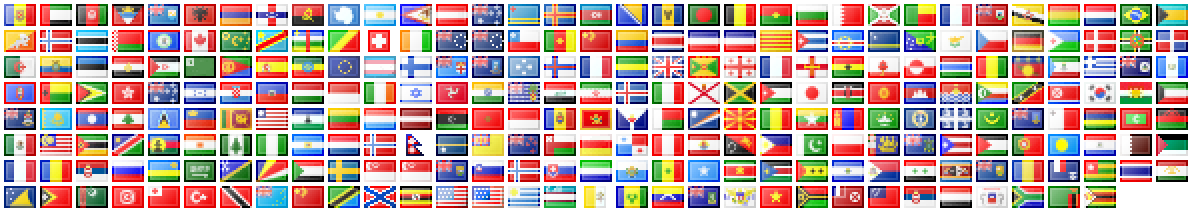
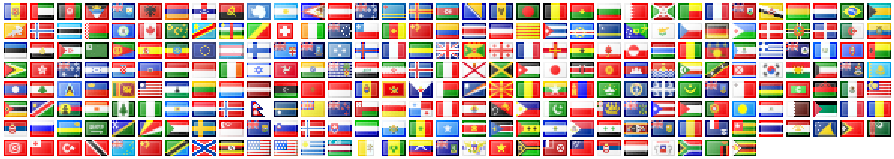
add average color of videos and pics change flag atlas dimensions

diff --git a/src/data/sql/Message.js b/src/data/sql/Message.js
@@ -103,7 +103,7 @@ export async function storeMessage(message, cid, uid) {
         if (insertedRows > 0) {
           const models = await sequelize.query(
             // eslint-disable-next-line max-len
-            `SELECT CONCAT(shortId, ':', b.extension) AS mediaId, b.type AS mediaType, b.size AS mediaSize, b.width AS mediaWidth, b.height AS mediaHeight FROM Media b
+            `SELECT CONCAT(shortId, ':', b.extension) AS mediaId, b.type AS mediaType, b.size AS mediaSize, b.width AS mediaWidth, b.height AS mediaHeight, b.avgColor AS mediaAvgColor FROM Media b
   INNER JOIN MessageMedia mm ON mm.mid = b.id
 WHERE mm.sid = ?`, {
               replacements: [id],
@@ -115,9 +115,11 @@ WHERE mm.sid = ?`, {
           for (let i = 0; i < models.length; i += 1) {
             const {
               mediaId, mediaType, mediaSize, mediaWidth, mediaHeight,
+              mediaAvgColor,
             } = models[i];
             attachments.push([
               mediaId, mediaType, mediaSize, mediaWidth, mediaHeight,
+              mediaAvgColor,
             ]);
           }
         }
@@ -199,7 +201,7 @@ export async function getMessagesForChannel(cid, limit) {
       `SELECT m.id AS msgId, m.message, m.uid AS userId,
 UNIX_TIMESTAMP(m.createdAt) AS 'ts',
 u.name, u.userlvl, p.customFlag, s.country,
-CONCAT(b.shortId, ':', b.extension) AS mediaId, b.type AS mediaType, b.size AS mediaSize, b.width AS mediaWidth, b.height AS mediaHeight,
+CONCAT(b.shortId, ':', b.extension) AS mediaId, b.type AS mediaType, b.size AS mediaSize, b.width AS mediaWidth, b.height AS mediaHeight, b.avgColor AS mediaAvgColor,
 CONCAT(a.shortId, ':', a.extension) AS avatarId FROM Messages m
   INNER JOIN Users u ON u.id = m.uid
   LEFT JOIN Profiles p ON p.uid = u.id
@@ -237,9 +239,11 @@ WHERE m.cid = ? ORDER BY m.createdAt DESC LIMIT ?`, {
           );
           mediaReferences.set(msgId, attachments);
         }
-        const { mediaType, mediaSize, mediaWidth, mediaHeight } = model;
+        const {
+          mediaType, mediaSize, mediaWidth, mediaHeight, mediaAvgColor,
+        } = model;
         attachments.push([
-          mediaId, mediaType, mediaSize, mediaWidth, mediaHeight,
+          mediaId, mediaType, mediaSize, mediaWidth, mediaHeight, mediaAvgColor,
         ]);
       } else {
         rows.push(

diff --git a/src/data/sql/Media.js b/src/data/sql/Media.js
@@ -78,6 +78,13 @@ const Media = sequelize.define('Media', {
   },
 
   /*
+   * average color as a 32bit RGB
+   */
+  avgColor: {
+    type: DataTypes.INTEGER.UNSIGNED,
+  },
+
+  /*
    * from lowest to highest bit:
    * 0: registeredUsersOnly (if only registered users can view it)
    * 1: allowCORS (if allowing cors)
@@ -190,7 +197,7 @@ export async function hasMedia(hashes) {
 
     const mediaModels = await sequelize.query(
       // eslint-disable-next-line max-len
-      `SELECT id, LOWER(HEX(hash)) AS hash, mimeType, extension, shortId, type, width, height FROM Media WHERE ${
+      `SELECT id, LOWER(HEX(hash)) AS hash, mimeType, extension, shortId, type, width, height, avgColor FROM Media WHERE ${
         hashes.map(
           () => '( hash = UNHEX(?) AND mimeType = ? )',
         ).join(' OR ')
@@ -233,6 +240,7 @@ export async function hasMedia(hashes) {
             hash.type = model.type;
             hash.width = model.width;
             hash.height = model.height;
+            hash.avgColor = model.avgColor;
             hash.mediaId = `${model.shortId}:${model.extension}`;
             hash.existed = true;
           } else {
@@ -310,7 +318,7 @@ export async function linkMedia(models, userId, ip) {
  * @return success boolean
  */
 export async function registerMedia(
-  model, size, width = null, height = null, pHash = null,
+  model, size, width = null, height = null, avgColor = null, pHash = null,
 ) {
   const { hash, mimeType, extension } = model;
   try {
@@ -333,9 +341,9 @@ export async function registerMedia(
     } while (exists);
     await sequelize.query(
       // eslint-disable-next-line max-len
-      'INSERT INTO Media (hash, shortId, extension, mimeType, size, width, height, lastUpload) VALUES (UNHEX(?), ?, ?, ?, ?, ?, ?, NOW()) ON DUPLICATE KEY UPDATE lastUpload = VALUES(lastUpload)', {
+      'INSERT INTO Media (hash, shortId, extension, mimeType, size, width, height, avgColor, lastUpload) VALUES (UNHEX(?), ?, ?, ?, ?, ?, ?, ?, NOW()) ON DUPLICATE KEY UPDATE lastUpload = VALUES(lastUpload)', {
         replacements: [
-          hash, shortId, extension, mimeType, size, width, height,
+          hash, shortId, extension, mimeType, size, width, height, avgColor,
         ],
         raw: true,
         type: QueryTypes.INSERT,

diff --git a/src/components/embeds/LocalMedia.jsx b/src/components/embeds/LocalMedia.jsx
@@ -19,13 +19,14 @@ import {
 import { VIDEO_EXTENSIONS, IMAGE_EXTENSIONS } from '../../core/constants.js';
 
 const LocalMedia = ({
-  url, fill, mediaId, title: gTitle, width, height, type: gType, scrollRef,
+  url, fill, mediaId, width, height, scrollRef, avgColor,
+  title: gTitle, type: gType,
 }) => {
   const [expanded, setExpanded] = useState(false);
 
   const link = useLink();
 
-  const [fullUrl, thumbUrl,, title, type] = useMemo(() => {
+  const [fullUrl, thumbUrl,, title, type, backgroundColor] = useMemo(() => {
     let mid = mediaId;
     let oTitle = gTitle;
     let oType = gType;
@@ -46,8 +47,9 @@ const LocalMedia = ({
     return [
       ...getUrlsFromMediaIdAndName(mid, oTitle),
       oTitle, oType,
+      avgColor && `#${avgColor.toString(16).padStart(6, '0')}`,
     ];
-  }, [url, gTitle, gType, mediaId]);
+  }, [url, gTitle, gType, mediaId, avgColor]);
 
   if (!fullUrl || !thumbUrl || !type) {
     return null;
@@ -78,13 +80,14 @@ const LocalMedia = ({
     textAlign: 'center',
     maxWidth: '100%',
     flex: '0 1 auto',
+    backgroundColor,
   } : {
     display: 'inline-block',
-    backgroundColor: 'rgb(240, 240, 240)',
     flex: '0 1 auto',
     width: '100%',
     maxHeight: '100%',
-    aspectRatio: `${width} / ${height}`,
+    backgroundColor,
+    aspectRatio: (width && height) ? `${width} / ${height}` : undefined,
   };
 
   if (!fill && width && height) {
@@ -109,7 +112,6 @@ const LocalMedia = ({
           style={{
             maxWidth: '100%',
             maxHeight: '100%',
-            backgroundColor: '#f0f0f0',
             objectFit: 'contain',
           }}
         />
@@ -146,19 +148,11 @@ const LocalMedia = ({
           <span
             onClick={toggleExpand}
           >
-            {(expanded)
-              ? (
-                <HiStop
-                  className="ebcl"
-                  title={t`Shrink`}
-                />
-              )
-              : (
-                <HiArrowsExpand
-                  className="ebex"
-                  title={t`Expand`}
-                />
-              )}
+            <HiStop
+              className="ebem"
+              style={{ color: 'red' }}
+              title={t`Shrink`}
+            />
           </span>
         </>
       )}

diff --git a/src/utils/media/videoThumbnails.js b/src/utils/media/videoThumbnails.js
@@ -39,7 +39,7 @@ export default async function createVideoThumbnails(
 
     const image = sharp(screencapFilePath);
     const metadata = await image.metadata();
-    const dimensions = {
+    const stats = {
       width: metadata.width,
       height: metadata.height,
     };
@@ -47,7 +47,7 @@ export default async function createVideoThumbnails(
      * first attempt: 320x240
      * second: 200x150
      */
-    const previewBuffer = await image.resize(200, 150, {
+    let previewBuffer = await image.resize(200, 150, {
       fit: 'inside',
       withoutEnlargement: true,
     }).webp({
@@ -55,15 +55,25 @@ export default async function createVideoThumbnails(
       effort: 4,
     }).toBuffer();
 
-    await Promise.all([
+    [, previewBuffer] = await Promise.all([
       fs.promises.writeFile(thumbFilePath, previewBuffer),
       sharp(previewBuffer).resize(48, 48, {
         fit: 'cover',
         position: 'center',
-      }).webp({ quality: 75 }).toFile(iconFilePath),
+      }).webp({ quality: 75 }).toBuffer(),
     ]);
 
-    return dimensions;
+    const [, { channels }] = await Promise.all([
+      fs.promises.writeFile(iconFilePath, previewBuffer),
+      sharp(previewBuffer).stats(),
+    ]);
+
+    const r = Math.round(channels[0].mean);
+    const g = Math.round(channels[1].mean);
+    const b = Math.round(channels[2].mean);
+    stats.avgColor = (r << 16) | (g << 8) | b;
+
+    return stats;
   } catch (error) {
     console.error(
       `MEDIA: Could not create thumbnails for ${filePath} ${error.message}`,

diff --git a/src/utils/media/imageThumbnails.js b/src/utils/media/imageThumbnails.js
@@ -10,7 +10,7 @@ export default async function createImageThumbnails(
   try {
     const image = sharp(filePath);
     const metadata = await image.metadata();
-    const dimensions = {
+    const stats = {
       width: metadata.width,
       height: metadata.height,
     };
@@ -18,7 +18,7 @@ export default async function createImageThumbnails(
      * first attempt: 320x240
      * second: 200x150
      */
-    const previewBuffer = await image.resize(200, 150, {
+    let previewBuffer = await image.resize(200, 150, {
       fit: 'inside',
       withoutEnlargement: true,
     }).webp({
@@ -26,15 +26,25 @@ export default async function createImageThumbnails(
       effort: 4,
     }).toBuffer();
 
-    await Promise.all([
+    [, previewBuffer] = await Promise.all([
       fs.promises.writeFile(thumbFilePath, previewBuffer),
       sharp(previewBuffer).resize(48, 48, {
         fit: 'cover',
         position: 'center',
-      }).webp({ quality: 75 }).toFile(iconFilePath),
+      }).webp({ quality: 75 }).toBuffer(),
     ]);
 
-    return dimensions;
+    const [, { channels }] = await Promise.all([
+      fs.promises.writeFile(iconFilePath, previewBuffer),
+      sharp(previewBuffer).stats(),
+    ]);
+
+    const r = Math.round(channels[0].mean);
+    const g = Math.round(channels[1].mean);
+    const b = Math.round(channels[2].mean);
+    stats.avgColor = (r << 16) | (g << 8) | b;
+
+    return stats;
   } catch (error) {
     console.error(
       `MEDIA: Could not create thumbnails for ${filePath} ${error.message}`,

diff --git a/src/utils/media/index.js b/src/utils/media/index.js
@@ -241,15 +241,16 @@ export async function storeMediaStream(
     const tempIconFilePath = `${temporaryFile}_icon`;
     let width = null;
     let height = null;
+    let avgColor = null;
     if (type === 'image' || type === 'video') {
       tempFileList.push(tempThumbFilePath, tempIconFilePath);
       if (type === 'image') {
-        ({ width, height } = await createImageThumbnails(
+        ({ width, height, avgColor } = await createImageThumbnails(
           temporaryFile, tempThumbFilePath, tempIconFilePath,
         ));
       } else if (type === 'video') {
         tempFileList.push(tempScreencapFilePath);
-        ({ width, height } = await createVideoThumbnails(
+        ({ width, height, avgColor } = await createVideoThumbnails(
           temporaryFile,
           tempScreencapFilePath, tempThumbFilePath, tempIconFilePath,
         ));
@@ -259,7 +260,7 @@ export async function storeMediaStream(
     /*
      * register media, this gives us the shortId for storage
      */
-    await registerMedia(model, size, width, height, pHash);
+    await registerMedia(model, size, width, height, avgColor, pHash);
     if (!model.shortId) {
       throw new Error('server_error');
     }

diff --git a/src/components/markdown/MdParagraph.jsx b/src/components/markdown/MdParagraph.jsx
@@ -117,11 +117,12 @@ const MdParagraph = ({
           {pAttachments.map(([title, mediaId]) => {
             let width;
             let height;
+            let avgColor;
             let type;
             const fileInfo = attachmentInfo.find(([id]) => id === mediaId);
             if (fileInfo) {
               console.log('FOUND FILEINFO', fileInfo);
-              [, type, , width, height] = fileInfo;
+              [, type, , width, height, avgColor] = fileInfo;
             }
             return (
               <Attachment
@@ -130,6 +131,7 @@ const MdParagraph = ({
                 title={title}
                 width={width}
                 height={height}
+                avgColor={avgColor}
                 type={type}
                 scrollRef={scrollRef}
               />

diff --git a/scripts/mapFlags.js b/scripts/mapFlags.js
@@ -10,7 +10,7 @@ const FORBIDDEN_FLAGS = ['zz', 'z1', 'z2', 'z3', 'xx', 'a1', 'a2', 'yy', 'ap'];
 const MARGIN = 2;
 const FLAG_WIDTH = 16;
 const FLAG_HEIGHT = 11;
-const SCALE = 2;
+const SCALE = 1.5;
 
 const __dirname = import.meta.dirname;
 
@@ -26,7 +26,7 @@ async function mapFlags() {
   const ts = Date.now();
   process.stdout.write(`\x1b[33mGenerating Country Flag texture map\x1b[0m\n`);
   const flagCodes = fs.readdirSync(flagdir)
-    .filter((e) => e.endsWith('.gif'))
+    .filter((e) => e.endsWith('.gif') && e.length === 6)
     .map((e) => e.substring(0, 2))
     .filter((e) => !FORBIDDEN_FLAGS.includes(e))
     .sort();

diff --git a/src/store/reducers/chat.js b/src/store/reducers/chat.js
@@ -26,7 +26,7 @@ const initialState = {
    * ],...], ... }
    *
    * with attachments:
-   * [[mediaId, type, size, width, height], ...]
+   * [[mediaId, type, size, width, height, avgColor], ...]
    */
   messages: {},
 };

diff --git a/src/styles/default.css b/src/styles/default.css
@@ -1048,7 +1048,8 @@ table td span {
   background-color: rgba(0, 0, 0, 0.65);
   position: absolute;
   top: 0;
-  right: 0;
+  right: 5;
+  padding: 3;
 }
 .embtrc {
   position: relative;
